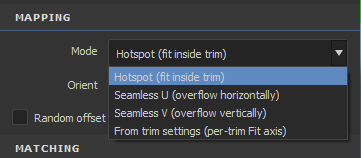
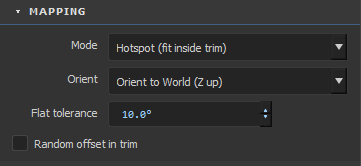
update

diff --git a/index.html b/index.html
@@ -48,7 +48,7 @@
     "applicationCategory": "DesignApplication",
     "applicationSubCategory": "3D modeling plugin",
     "operatingSystem": "Windows 10, Windows 11",
-    "softwareVersion": "2.3.1",
+    "softwareVersion": "2.4.0",
     "softwareRequirements": "Autodesk 3ds Max 2022 to 2027",
     "image": "https://3designdk.com/assets/logo_hotspotuv_1024.png",
     "author": { "@type": "Person", "name": "Dawid Kucharyk" },
@@ -346,7 +346,7 @@
         </figure>
         <figure style="margin:0">
           <button class="control-shot" type="button" aria-label="Zoom the Advanced view">
-            <img src="assets/ui_advanced.png" alt="HotspotUV window in Advanced view — the full options panel with Padding and Variation sections" width="882" height="792" loading="lazy">
+            <img src="assets/ui_advanced.webp" alt="HotspotUV window in Advanced view — a 36-trim sheet on the map and the full options panel with Padding and Variation sections" width="1114" height="1434" loading="lazy">
             <span class="control-shot-hint" aria-hidden="true"><svg viewBox="0 0 24 24" width="15" height="15" fill="none" stroke="currentColor" stroke-width="2" stroke-linecap="round" stroke-linejoin="round"><circle cx="11" cy="11" r="7"/><path d="M21 21l-4.3-4.3M11 8v6M8 11h6"/></svg></span>
           </button>
           <figcaption style="margin-top:8px;text-align:center;opacity:.75;font-size:.9em"><strong>Advanced</strong> — every option, one switch away. Your choice is remembered.</figcaption>
@@ -364,7 +364,7 @@
           </button>
           <dl class="control-list">
             <dt>Basic</dt>
-            <dd>Mode, Orient, Priority, Area and the Scale toggles — enough for 90% of runs.</dd>
+            <dd>Mode, Orient, Measure, Priority, Trim size and the Scale toggles — enough for 90% of runs.</dd>
             <dt>Advanced</dt>
             <dd>Reveals the long-tail options plus the Padding and Variation sections. Your choice is remembered between sessions.</dd>
             <dt>Target counter</dt>
@@ -376,7 +376,7 @@
           <h3>Mapping</h3>
           <p class="control-lead">How each island lands in its trim.</p>
           <button class="control-shot" type="button" aria-label="Zoom the Mapping panel">
-            <img src="assets/panel_mapping.png" alt="HotspotUV panel — Mapping section with the Mode dropdown open: Hotspot, Seamless U, Seamless V, From trim settings" width="361" height="158" loading="lazy">
+            <img src="assets/panel_mapping.png" alt="HotspotUV panel — Mapping section: Mode, Orient set to Orient to World, and the Flat tolerance field" width="361" height="166" loading="lazy">
             <span class="control-shot-hint" aria-hidden="true"><svg viewBox="0 0 24 24" width="15" height="15" fill="none" stroke="currentColor" stroke-width="2" stroke-linecap="round" stroke-linejoin="round"><circle cx="11" cy="11" r="7"/><path d="M21 21l-4.3-4.3M11 8v6M8 11h6"/></svg></span>
           </button>
           <dl class="control-list">
@@ -384,6 +384,8 @@
             <dd>Fit the island inside the trim (<em>Hotspot</em>), let it tile past the trim (<em>Seamless&nbsp;U/V</em>), or use each trim's own setting (<em>From trim settings</em>) to mix normal trims and seamless strips in one pass.</dd>
             <dt>Orient</dt>
             <dd><em>As&nbsp;Is</em>, <em>Auto</em> (longest side horizontal), <em>Straighten</em> skew to the UV axis, or <em>Orient to World</em> — the surface's world-up (Z) points up in UV, so walls stay vertical and upside-down islands are fixed.</dd>
+            <dt>Flat tolerance</dt>
+            <dd>Only with <em>Orient to World</em>: how much tilt a surface needs before it counts as sloped. Below it, a face is treated as flat and the next world axis decides, so chamfers and near-level faces stop picking arbitrary angles. Default 10&deg;. <em>(Advanced)</em></dd>
             <dt>Random offset in trim</dt>
             <dd>Seeded random placement instead of centering, so repeated islands don't line up. <em>(Advanced)</em></dd>
           </dl>
@@ -397,14 +399,16 @@
             <span class="control-shot-hint" aria-hidden="true"><svg viewBox="0 0 24 24" width="15" height="15" fill="none" stroke="currentColor" stroke-width="2" stroke-linecap="round" stroke-linejoin="round"><circle cx="11" cy="11" r="7"/><path d="M21 21l-4.3-4.3M11 8v6M8 11h6"/></svg></span>
           </button>
           <button class="control-shot" type="button" aria-label="Zoom the Matching panel">
-            <img src="assets/panel_matching.png" alt="HotspotUV panel — Matching section with the Area dropdown open" width="361" height="197" loading="lazy">
+            <img src="assets/panel_matching.png" alt="HotspotUV panel — Matching section: Measure (Current UVs or Model geometry) and the Trim size dropdown open" width="361" height="222" loading="lazy">
             <span class="control-shot-hint" aria-hidden="true"><svg viewBox="0 0 24 24" width="15" height="15" fill="none" stroke="currentColor" stroke-width="2" stroke-linecap="round" stroke-linejoin="round"><circle cx="11" cy="11" r="7"/><path d="M21 21l-4.3-4.3M11 8v6M8 11h6"/></svg></span>
           </button>
           <dl class="control-list">
+            <dt>Measure</dt>
+            <dd><em>Current UVs</em> matches on the island&rsquo;s UV bounding box as it is now; <em>Model geometry (3D)</em> matches on its real size on the model, so re-running with different settings decides from scratch instead of snapping back to the trim it already sits in.</dd>
             <dt>Priority</dt>
             <dd><em>Balanced</em> (closest to the island's actual size — uniform density), by shape first, by size first, or by real-world area (texel density).</dd>
-            <dt>Area</dt>
-            <dd>Prefer the closest-sized zone, the largest, the smallest, or a manual scale factor.</dd>
+            <dt>Trim size</dt>
+            <dd>Aim at trims the island&rsquo;s own size (<em>Island size</em>), or bias the search toward larger or smaller trims &mdash; or set the multiplier yourself.</dd>
           </dl>
         </article>
 
@@ -417,7 +421,7 @@
           </button>
           <dl class="control-list">
             <dt>Manual scale</dt>
-            <dd>Zone-area multiplier when Area = <em>Manual</em> — above 1 picks bigger zones, below 1 smaller.</dd>
+            <dd>Zone-area multiplier when Trim size = <em>Manual</em> — above 1 picks bigger zones, below 1 smaller.</dd>
             <dt>Aspect bias</dt>
             <dd>Nudge matches toward wider (<em>+</em>) or narrower (<em>−</em>) zones.</dd>
             <dt>Allow 90° rotation</dt>
@@ -896,9 +900,39 @@
 
         <details class="release is-latest" open>
           <summary class="release-head">
+            <span class="release-version">v2.4.0</span>
+            <span class="release-date">18 Aug 2026</span>
+            <span class="release-badge">Latest</span>
+          </summary>
+          <div class="release-content">
+            <div class="rel-group">
+              <span class="rel-cat">New</span>
+              <ul class="rel-list">
+                <li><strong>Flat tolerance</strong> &mdash; <em>Orient to World</em> reads which world axis runs uphill across a face, and a face lying level to that axis has no uphill at all, so the next axis decides. That call used to hang on a raw threshold, which let a chamfer half a degree off level &mdash; or plain rounding noise on a flat face &mdash; set the rotation for a whole island. It is now the surface&rsquo;s tilt in degrees: below the tolerance a face counts as flat. Default 10&deg;. Reported by Edward B.</li>
+                <li><strong>Measure: Current UVs or Model geometry (3D)</strong> &mdash; matching reads an island&rsquo;s current UV bounding box, which makes a second pass sticky: once an island sits in a trim it carries that trim&rsquo;s proportions and matches straight back to it, so new settings look ignored until you clear the UVs. Measuring on the model instead makes every pass decide from scratch. Needs a scale to compare against: one trim with a real-world size, or texel density. Reported by Edward B.</li>
+              </ul>
+            </div>
+            <div class="rel-group">
+              <span class="rel-cat">Changed</span>
+              <ul class="rel-list">
+                <li><strong>&ldquo;Area&rdquo; is now &ldquo;Trim size&rdquo;</strong>, and its entries say what they do: <em>Island size (closest)</em>, <em>Prefer large trims</em>, <em>Prefer small trims</em>, <em>Manual</em>. They bias the size search rather than rank trims &mdash; on a sheet whose trims dwarf the island, &ldquo;prefer large&rdquo; can land in between, which the old &ldquo;largest zone&rdquo; label promised it would not. Existing presets keep working. Reported by Edward B.</li>
+                <li><strong>Drag the arrows on any number field</strong> to sweep the value, the way Max spinners work &mdash; Ctrl for fine steps, Shift for coarse. A plain click still steps once.</li>
+                <li>Options that do not apply now grey out together with their captions.</li>
+              </ul>
+            </div>
+            <div class="rel-group">
+              <span class="rel-cat">Fixed</span>
+              <ul class="rel-list">
+                <li>Texel density was used as a sheet scale even with its mode switched off, reading a value from a greyed-out field &mdash; so <em>Model geometry</em> always believed it had a scale and the warning about a sheet without one could never appear.</li>
+              </ul>
+            </div>
+          </div>
+        </details>
+
+        <details class="release">
+          <summary class="release-head">
             <span class="release-version">v2.3.1</span>
             <span class="release-date">12 Aug 2026</span>
-            <span class="release-badge">Latest</span>
           </summary>
           <div class="release-content">
             <div class="rel-group">

diff --git a/tutorial.html b/tutorial.html
@@ -226,7 +226,7 @@
 
 <div class="topbar"><div class="wrap">
   <a class="brand" href="/">Hotspot<b>UV</b></a>
-  <span class="chip">v2.3.1</span>
+  <span class="chip">v2.4.0</span>
   <a class="backlink" href="/" data-t="nav_back">← Product page</a>
   <nav class="nav">
     <a href="#course" data-t="nav_co">Course</a>
@@ -482,7 +482,7 @@
 </div></section>
 
 <footer><div class="wrap">
-  <span class="mono">HotspotUV v2.3.1 — by 3Design</span>
+  <span class="mono">HotspotUV v2.4.0 — by 3Design</span>
   <span class="mono">Built on Unwrap_UVW · 3ds Max 2020–2026</span>
 </div></footer>
 
@@ -642,7 +642,7 @@
         ['Button','Matches all selected islands to the target zones in one pass.'],
         ['Quick UV + Hotspot','For raw, unmapped objects: a uniform box projection at a consistent texel scale (auto-calibrated to the sheet; Flatten for organics), then an immediate hotspot pass. Any number of objects, one shared Unwrap, two undo steps.'],
         ['Targets','Zones selected on the map; no selection = all enabled zones. The counter always tells you which: “All enabled trims (N)” or “N target trims selected”.'],
-        ['Basic | Advanced','Progressive disclosure: Basic shows Quick UV, Mode, Orient, Priority, Area and the Scale toggles; Advanced adds the long-tail rows plus Padding and Variation. The choice is remembered between sessions.'],
+        ['Basic | Advanced','Progressive disclosure: Basic shows Quick UV, Mode, Orient, Measure, Priority, Trim size and the Scale toggles; Advanced adds the long-tail rows plus Padding and Variation. The choice is remembered between sessions.'],
         ['Hidden-options hint','In Basic a muted line counts what’s hidden — nothing is ever lost, just tucked away.'],
         ['Undo','The whole run is one Ctrl+Z — multi-object runs included. Ctrl+Z works inside the tool window.'],
         ['Listener','After every run a summary line: islands matched/skipped and time.']]},
@@ -651,11 +651,13 @@
         ['Mode: Seamless U / V','Fit one axis only — the island keeps proportions and may overflow (tiling) along the other.'],
         ['Mode: From trim settings','Use each trim’s own Fit axis — one pass mixes normal trims, seamless strips and Fill.'],
         ['Orient','As Is · Auto (longest side horizontal) · Orient (straighten skew to the UV axis, min-area rect, sub-degree too) · Orient to World (world-up Z → up in UV; fixes upside-down islands).'],
+        ['Flat tolerance','Orient to World only: how much tilt a surface needs before it counts as sloped. Below it the face is treated as level and the next world axis decides, so chamfers and near-flat faces stop picking arbitrary angles. Default 10°. Advanced.'],
         ['Random offset in trim','Random placement instead of centering (seeded). Advanced view.']]},
-      {k:'[8] Matching',s:'Matching',t:'Which zone to pick',p:'The heart of the engine. Basic shows Priority and Area; the fine-tuning rows live in Advanced.',rows:[
+      {k:'[8] Matching',s:'Matching',t:'Which zone to pick',p:'The heart of the engine. Basic shows Measure, Priority and Trim size; the fine-tuning rows live in Advanced.',rows:[
         ['Priority','Balanced (closest to the island’s actual size — uniform density, default) · Aspect (shape first) · Area (size first) · World size (real-world area).'],
-        ['Area','As Is (closest area) · Max (largest zone) · Min (smallest) · Manual (multiplier).'],
-        ['Manual scale','Area multiplier for Area = Manual: >1 aims at larger zones, <1 at smaller. Advanced.'],
+        ['Measure','Current UVs (the island’s UV bounding box as it is now) · Model geometry (3D) (its real size on the model, so a second pass with different settings decides from scratch instead of snapping back to the trim it sits in). Needs a trim with a real-world size, or texel density.'],
+        ['Trim size','Island size (closest) · Prefer large trims · Prefer small trims · Manual (multiplier). A bias on the size search, not a ranking: on a sheet whose trims dwarf the island, “prefer large” can land in between.'],
+        ['Manual scale','Area multiplier for Trim size = Manual: >1 aims at larger zones, <1 at smaller. Advanced.'],
         ['Aspect bias','+ favours wider zones, − narrower, 0 = off. Advanced.'],
         ['Allow 90° rotation','Lets an island rotate 90° to fit the zone orientation. Advanced.'],
         ['Detect radial → “Radial” trims','Round islands (caps, dials, wheels) map only to trims tagged Radial; other islands skip them. Advanced.'],
@@ -734,11 +736,13 @@
         ['Mode: Seamless U / V','Dopasowanie tylko jednej osi — wyspa trzyma proporcje i może wystawać (kafelkować) wzdłuż drugiej.'],
         ['Mode: From trim settings','Używa własnej osi Fit każdego trima — jeden przebieg miesza zwykłe trimy, pasy seamless i Fill.'],
         ['Orient','As Is · Auto (dłuższy bok poziomo) · Orient (prostowanie skośnych do osi UV, min-area rect, działa poniżej 1°) · Orient to World (światowe Z → góra UV; naprawia wyspy do góry nogami).'],
+        ['Flat tolerance','Tylko przy Orient to World: ile nachylenia musi mieć powierzchnia, żeby liczyła się jako spadek. Poniżej progu jest traktowana jak płaska i decyduje kolejna oś świata, więc fazki i prawie poziome ścianki przestają dostawać przypadkowe kąty. Domyślnie 10°. Advanced.'],
         ['Random offset in trim','Losowe położenie zamiast centrowania (seedowane). Widok Advanced.']]},
       {k:'[8] Matching',s:'Matching',t:'Którą strefę wybrać',p:'Serce silnika. Basic pokazuje Priority i Area; wiersze fine-tuningu mieszkają w Advanced.',rows:[
         ['Priority','Balanced (najbliższy realnemu rozmiarowi wyspy — jednolita gęstość, domyślny) · Aspect (najpierw kształt) · Area (najpierw rozmiar) · World size (realne wymiary).'],
-        ['Area','As Is (najbliższe pole) · Max (największa) · Min (najmniejsza) · Manual (mnożnik).'],
-        ['Manual scale','Mnożnik pola dla Area = Manual: >1 celuje w większe strefy, <1 w mniejsze. Advanced.'],
+        ['Measure','Current UVs (bieżąca ramka UV wyspy) · Model geometry (3D) (realny rozmiar na modelu, więc drugi przebieg z innymi ustawieniami decyduje od nowa, zamiast wracać do trimu, w którym wyspa już siedzi). Wymaga trimu z rozmiarem rzeczywistym albo texel density.'],
+        ['Trim size','Island size (najbliższy rozmiar) · Prefer large trims · Prefer small trims · Manual (mnożnik). To bias wyszukiwania, nie ranking: przy arkuszu, którego trimy są dużo większe od wyspy, „prefer large” może wypaść pośrodku.'],
+        ['Manual scale','Mnożnik pola dla Trim size = Manual: >1 celuje w większe strefy, <1 w mniejsze. Advanced.'],
         ['Aspect bias','+ faworyzuje szersze strefy, − węższe, 0 = wył. Advanced.'],
         ['Allow 90° rotation','Pozwala obrócić wyspę o 90° pod orientację strefy. Advanced.'],
         ['Detect radial → „Radial”','Okrągłe wyspy (kapsle, tarcze, koła) trafiają tylko w trimy z tagiem Radial; inne je omijają. Advanced.'],
